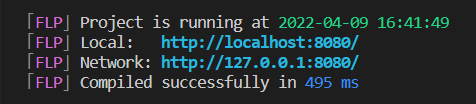
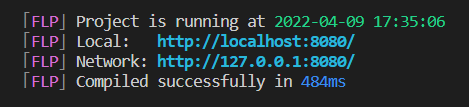
optimize prod log

Changed region(s): [[0.0299, 0.1154, 0.9552, 0.8942], [0.7463, 0.4904, 0.7761, 0.5192]]

diff --git a/plugins/index.js b/plugins/index.js
@@ -18,21 +18,21 @@ class FriendlyLogPlugin {
     compiler.hooks.done.tap('FriendlyLogPlugin', stats => {
       // 检查编译期是否有错误，存在就返回，否则会影响到编译错误的显示。
       if (stats.hasErrors()) return
-      const { assets, startTime, endTime, modules } = stats.compilation
 
+      const abbr = 'FLP',
+        { assets, startTime, endTime, modules } = stats.compilation
       if (process.env.NODE_ENV !== 'production') {
         // 开发环境
-        // 获取开发服务器请求信息，值为 D:\xxx\node_modules\webpack-dev-server\client\index.js?protocol=ws%3A&hostname=0.0.0.0&port=8080&pathname=%2Fws&logging=info&reconnect=10。
+        // 获取开发服务器请求信息(后续可能会优化)，值为 D:\xxx\node_modules\webpack-dev-server\client\index.js?protocol=ws%3A&hostname=0.0.0.0&port=8080&pathname=%2Fws&logging=info&reconnect=10。
         const request = [...modules].find(i =>
-          i.context?.includes('\\node_modules\\webpack-dev-server\\client'),
-        ).request
-        const searchParams = new URL(request).searchParams
-        const protocol = compiler.options.devServer?.https ? 'https' : 'http'
-        const host = searchParams.get('hostname')
-        const port = searchParams.get('port')
-        const urls = prepareUrls(protocol, host, port)
+            i.context?.includes('\\node_modules\\webpack-dev-server\\client'),
+          ).request,
+          searchParams = new URL(request).searchParams,
+          protocol = compiler.options.devServer?.https ? 'https' : 'http',
+          host = searchParams.get('hostname'),
+          port = searchParams.get('port'),
+          urls = prepareUrls(protocol, host, port)
 
-        const abbr = 'FLP'
         console.log()
         log(`Project is running at ${fancyTime(new Date(endTime))}`, abbr)
         log(`Local:   ${fancyUrl(urls.localUrl)}`, abbr)
@@ -47,8 +47,12 @@ class FriendlyLogPlugin {
         }
       } else {
         // 生产环境
-        const path = compiler.options.output.path
-        console.log(fancyAssets(assets, path, this.options.countControl))
+        console.log()
+        console.log(fancyAssets(assets, compiler.options.output.path, this.options.countControl))
+        console.log()
+        log(`Build completed at ${fancyTime(new Date(endTime))}`, abbr)
+        log(`Compiled successfully in ${fancyInterval(endTime - startTime)}`, abbr)
+        console.log()
       }
     })
   }

diff --git a/plugins/lib/fancyAssets.js b/plugins/lib/fancyAssets.js
@@ -116,10 +116,10 @@ module.exports = (assets, assetsDir, countControl) => {
 
   ui.div(
     ...makeRow(
-      chalk.bold('Dirctory'),
-      chalk.bold('Asset'),
-      chalk.bold('Size'),
-      chalk.bold('Gzipped'),
+      chalk.bold.cyan('Dirctory'),
+      chalk.bold.cyan('File'),
+      chalk.bold.cyan('Size'),
+      chalk.bold.cyan('Gzipped'),
     ),
   )
   assetsX.forEach(asset => {
@@ -145,5 +145,5 @@ module.exports = (assets, assetsDir, countControl) => {
     )
   })
 
-  return `\n` + ui.toString() + `\n`
+  return ui.toString()
 }

diff --git a/plugins/lib/fancyLog.js b/plugins/lib/fancyLog.js
@@ -20,9 +20,9 @@ module.exports = {
   fancyInterval: val => {
     let interval
     if (val >= 1000) {
-      interval = `${round(val / 1000, 2)} s`
+      interval = `${round(val / 1000, 2)}s`
     } else {
-      interval = `${val} ms`
+      interval = `${val}ms`
     }
     return chalk.blueBright(interval)
   },
